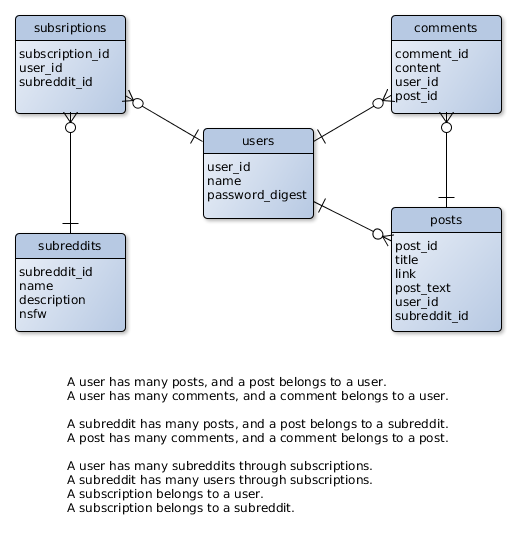
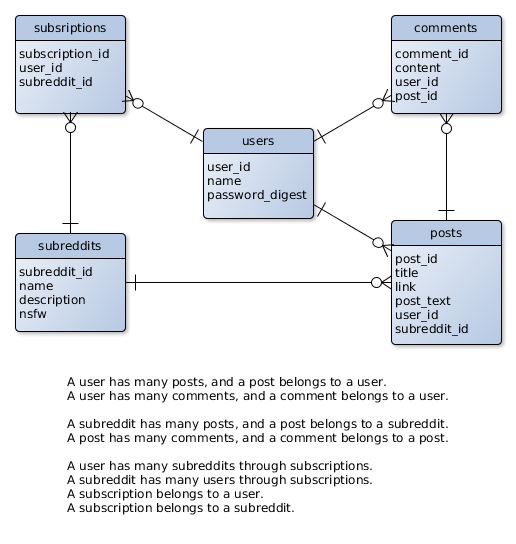
Added subreddit model
Created the subreddit model, migration, and tests.

diff --git a/planning/micro_reddit_data_model.html b/planning/micro_reddit_data_model.html
@@ -101,7 +101,7 @@ tooltip.style.display = "none";
   <area shape="rect" coords="15,361,501,529" alt="" onmouseover="showTooltip('n5')" onmouseout="hideTooltip()"/>
   <area shape="rect" coords="15,15,125,113" alt="" onmouseover="showTooltip('n4')" onmouseout="hideTooltip()"/>
   <area shape="rect" coords="391,15,501,113" alt="" onmouseover="showTooltip('n3')" onmouseout="hideTooltip()"/>
-  <area shape="rect" coords="391,207,501,331" alt="" onmouseover="showTooltip('n2')" onmouseout="hideTooltip()"/>
+  <area shape="rect" coords="391,220,501,344" alt="" onmouseover="showTooltip('n2')" onmouseout="hideTooltip()"/>
   <area shape="rect" coords="15,233,125,331" alt="" onmouseover="showTooltip('n1')" onmouseout="hideTooltip()"/>
   <area shape="rect" coords="203,128,313,218" alt="" onmouseover="showTooltip('n0')" onmouseout="hideTooltip()"/>
 </map>

diff --git a/spec/models/subreddit_spec.rb b/spec/models/subreddit_spec.rb
@@ -1,0 +1,102 @@
+require 'rails_helper'
+
+RSpec.describe Subreddit, type: :model do
+  let (:sub) { Subreddit.new(name: "learnruby",
+                             description: "This is a subreddit for people just learning Ruby and \
+                                           for Ruby experts looking to share their wisdom.",
+                             nsfw: false) }
+
+  context "the base subreddit" do
+    it "is valid" do
+      expect(sub.valid?).to be true
+    end
+  end
+  #########
+  # N A M E
+  context "with a blank name" do
+    it "is not valid" do
+      sub.name = " " * 10
+
+      expect(sub.valid?).to be false
+      expect(sub.errors.details[:name]).to be_an(Array)
+      expect(sub.errors.details[:name][0][:error]).to eql :blank
+    end
+  end
+
+  context "with a name outside the valid length range" do
+    it "cannot be too long" do
+      sub.name = "x" * 22
+
+      expect(sub.valid?).to be false
+      expect(sub.errors.details[:name]).to be_an(Array)
+      expect(sub.errors.details[:name][0][:error]).to eql :too_long
+    end
+
+    it "cannot be too short" do
+      sub.name = "x"
+
+      expect(sub.valid?).to be false
+      expect(sub.errors.details[:name]).to be_an(Array)
+      expect(sub.errors.details[:name][0][:error]).to eql :too_short
+    end
+  end
+
+  context "with a name with non-word chars" do
+    it "it will not be valid" do
+      ["le@rnruby", "p!cs", "scie/nce", "t-i-l"].each do |name|
+        sub.name = name
+
+        expect(sub.valid?).to be false
+        expect(sub.errors.details[:name]).to be_an(Array)
+        expect(sub.errors.details[:name][0][:error]).to eql :invalid
+      end
+    end
+  end
+
+  context "when the name is not all downcase" do
+    it "will be saved in downcase" do
+      varied_case_name = "LeaRnRubY"
+      sub.name = varied_case_name
+      sub.save
+      sub.reload
+
+      expect(sub.name).to eql varied_case_name.downcase
+    end
+  end
+
+  context "when a duplicate name is given" do
+    it "will mark the duplicate as invalid" do
+      duplicate_sub = sub.dup
+      duplicate_sub.name = sub.name.upcase
+      sub.save
+
+      expect(duplicate_sub.valid?).to be false
+    end
+  end
+
+  #######################
+  # D E S C R I P T I O N
+
+  context "when a description is too long" do
+    it "will not be valid" do
+      sub.description = "x" * 501
+
+      expect(sub.valid?).to be false
+      expect(sub.errors.details[:description]).to be_an(Array)
+      expect(sub.errors.details[:description][0][:error]).to eql :too_long
+    end
+  end
+
+  #########
+  # N S F W
+
+  context "when nsfw tag is blank" do
+    it "will not be valid" do
+      sub.nsfw = nil
+
+      expect(sub.valid?).to be false
+      expect(sub.errors.details[:nsfw]).to be_an(Array)
+      expect(sub.errors.details[:nsfw][0][:error]).to eql :inclusion
+    end
+  end
+end

diff --git a/db/schema.rb b/db/schema.rb
@@ -10,13 +10,23 @@
 #
 # It's strongly recommended that you check this file into your version control system.
 
-ActiveRecord::Schema.define(version: 20170208192513) do
+ActiveRecord::Schema.define(version: 20170208201743) do
+
+  create_table "subreddits", force: :cascade do |t|
+    t.string   "name",        null: false
+    t.text     "description"
+    t.boolean  "nsfw"
+    t.datetime "created_at",  null: false
+    t.datetime "updated_at",  null: false
+    t.index ["name"], name: "index_subreddits_on_name", unique: true
+  end
 
   create_table "users", force: :cascade do |t|
     t.string   "name"
     t.string   "password_digest"
     t.datetime "created_at",      null: false
     t.datetime "updated_at",      null: false
+    t.index ["name"], name: "index_users_on_name", unique: true
   end
 
 end

diff --git a/app/models/subreddit.rb b/app/models/subreddit.rb
@@ -1,0 +1,14 @@
+class Subreddit < ApplicationRecord
+  BAD_NAME_REGEX = /\W/
+
+  before_save { name.downcase! }
+
+  validates :name, presence: true,
+                   length: { in: 3..21 },
+                   format: { without: BAD_NAME_REGEX },
+                   uniqueness: { case_sensitive: false }
+
+  validates :description, length: { maximum: 500 }
+
+  validates :nsfw, inclusion: { in: [ true, false ] }
+end

diff --git a/db/migrate/20170208201514_create_subreddits.rb b/db/migrate/20170208201514_create_subreddits.rb
@@ -1,0 +1,13 @@
+class CreateSubreddits < ActiveRecord::Migration[5.0]
+  def change
+    create_table :subreddits do |t|
+      t.string :name, null: false
+      t.text :description
+      t.boolean :nsfw
+
+      t.timestamps
+
+      t.index :name, unique: true
+    end
+  end
+end
